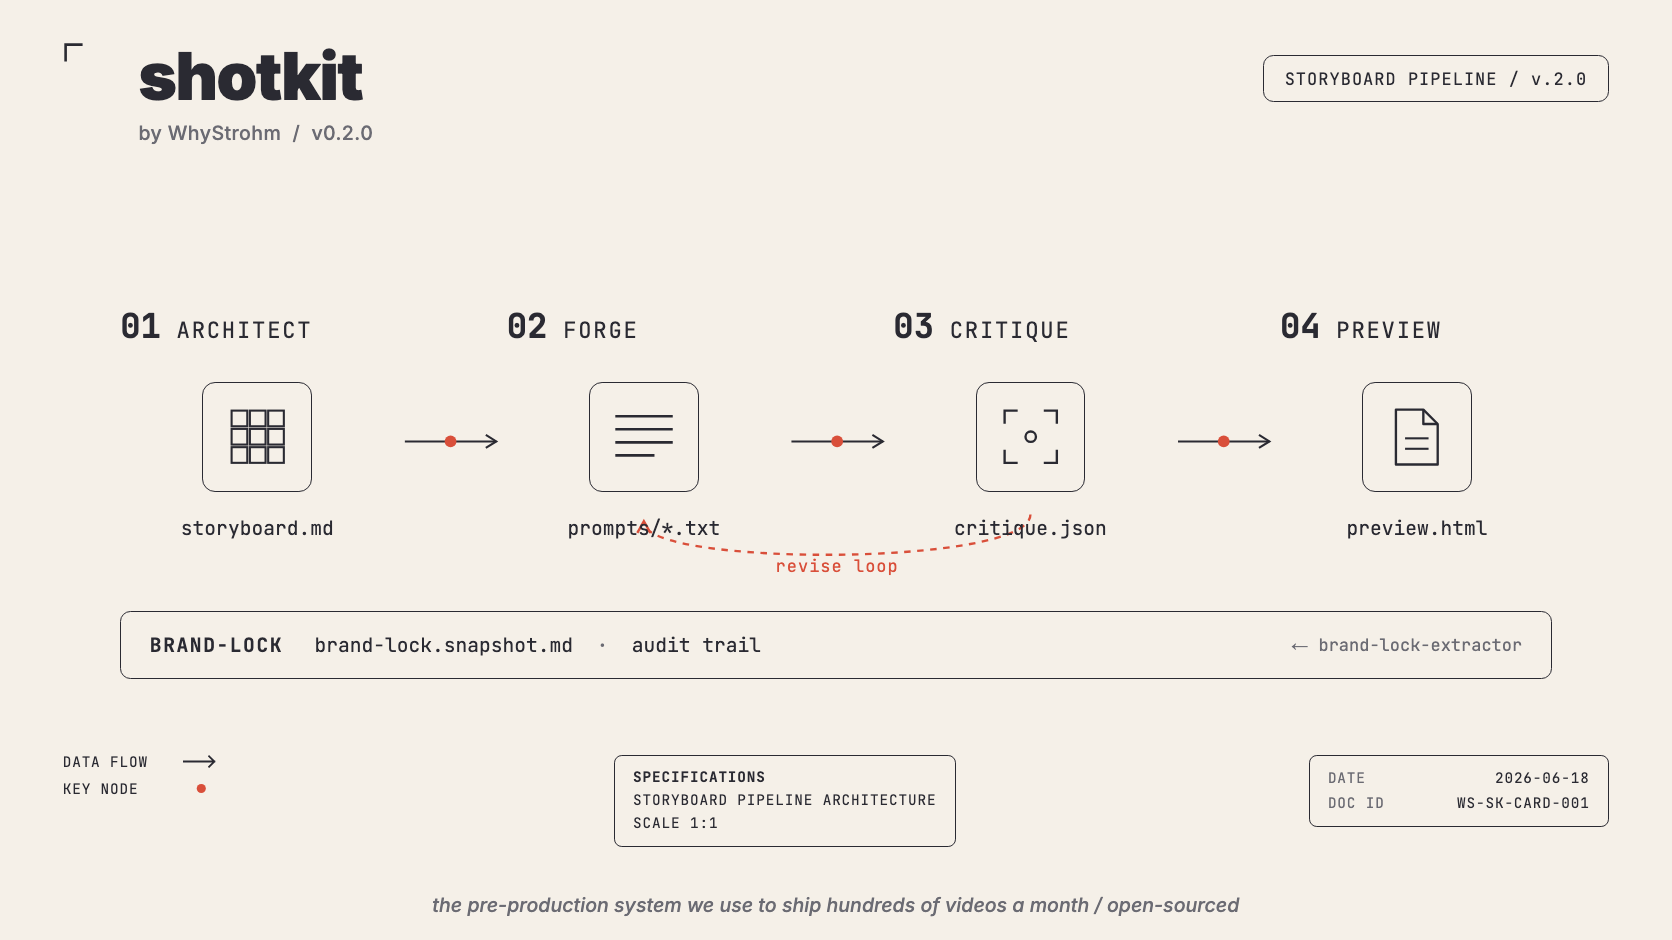
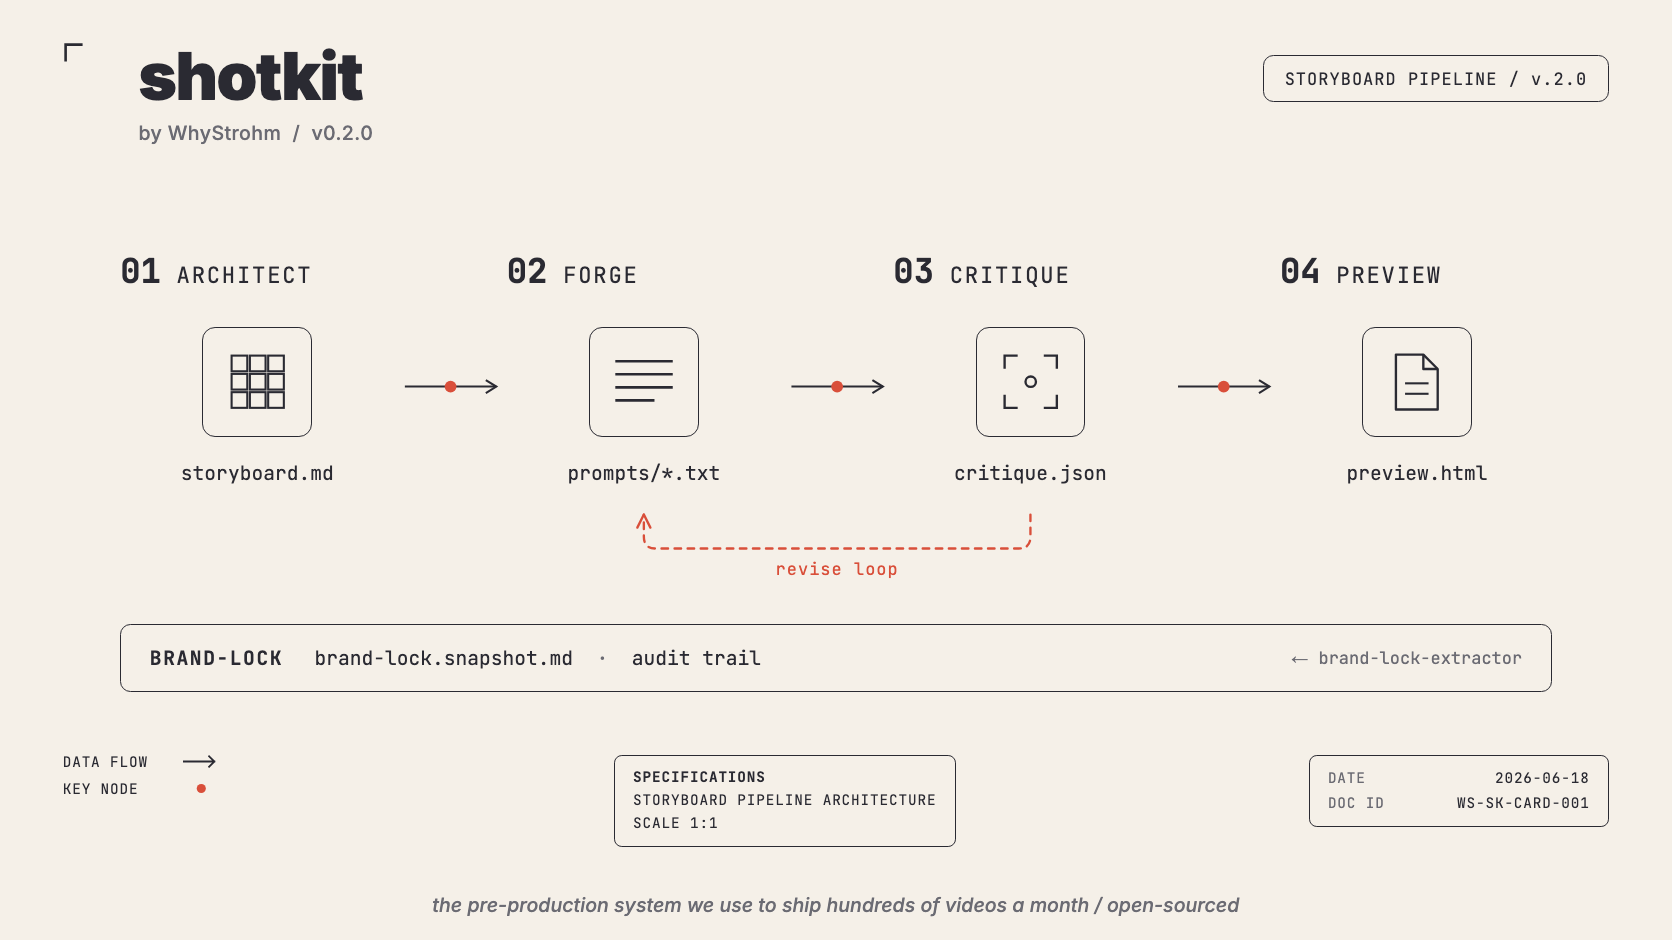
docs: clean up the revise-loop routing on the social-preview card
The feedback arc drooped into the filename row and crossed critique.json,
reading as a scribble. Reroute it as a right-angle schematic wire below the
filenames (drop from CRITIQUE, bus left, rise into FORGE) with proper
clearance, and give the stage row more vertical room.

diff --git a/remotion/src/SocialPreview.tsx b/remotion/src/SocialPreview.tsx
@@ -26,7 +26,7 @@ const STAGES = [
   { n: '04', name: 'PREVIEW', file: 'preview.html', icon: 'doc' as const },
 ];
 
-const ROW_Y = 232;
+const ROW_Y = 190;
 const CARD_W = 210;
 const GAP = 86;
 const FIRST_X = 92;
@@ -53,7 +53,12 @@ export const SocialPreview: React.FC = () => {
       ))}
 
       {/* The closed QA loop: CRITIQUE -> FORGE (revise the failed shots) */}
-      <ReviseLoop fromX={cardCenter(2)} toX={cardCenter(1)} topY={ICON_TOP + ICON_SIZE + 14} />
+      <ReviseLoop
+        fromX={cardCenter(2)}
+        toX={cardCenter(1)}
+        yStart={ICON_TOP + ICON_SIZE + 56}
+        yBus={ICON_TOP + ICON_SIZE + 82}
+      />
 
       {/* Stage cards */}
       {STAGES.map((s, i) => (
@@ -199,21 +204,43 @@ const Connector: React.FC<{ x1: number; x2: number; y: number }> = ({ x1, x2, y 
 };
 
 // The v0.2.0 closed loop: critique.json feeds prompt-forge revision mode.
-const ReviseLoop: React.FC<{ fromX: number; toX: number; topY: number }> = ({ fromX, toX, topY }) => {
-  const dip = topY + 40;
+// Routed as a clean right-angle feedback wire below the filenames: drop from
+// CRITIQUE, run left along a bus, rise into FORGE.
+const ReviseLoop: React.FC<{ fromX: number; toX: number; yStart: number; yBus: number }> = ({
+  fromX,
+  toX,
+  yStart,
+  yBus,
+}) => {
+  const r = 9; // corner radius
+  const d =
+    `M ${fromX} ${yStart} ` +
+    `L ${fromX} ${yBus - r} Q ${fromX} ${yBus} ${fromX - r} ${yBus} ` +
+    `L ${toX + r} ${yBus} Q ${toX} ${yBus} ${toX} ${yBus - r} ` +
+    `L ${toX} ${yStart}`;
   return (
     <svg style={{ position: 'absolute', left: 0, top: 0 }} width={1280} height={720}>
       <path
-        d={`M${fromX} ${topY} C ${fromX} ${dip}, ${toX} ${dip}, ${toX} ${topY + 6}`}
+        d={d}
         stroke={COLORS.coral}
         strokeWidth={1.8}
         fill="none"
         strokeDasharray="5 5"
+        strokeLinecap="round"
+        strokeLinejoin="round"
       />
-      <path d={`M${toX - 5} ${topY + 14}L${toX} ${topY + 5}L${toX + 5} ${topY + 14}`} stroke={COLORS.coral} strokeWidth={1.8} fill="none" />
+      {/* arrowhead pointing up into FORGE */}
+      <path
+        d={`M ${toX - 5} ${yStart + 10} L ${toX} ${yStart} L ${toX + 5} ${yStart + 10}`}
+        stroke={COLORS.coral}
+        strokeWidth={1.8}
+        fill="none"
+        strokeLinecap="round"
+        strokeLinejoin="round"
+      />
       <text
         x={(fromX + toX) / 2}
-        y={dip + 4}
+        y={yBus + 20}
         fill={COLORS.coral}
         fontFamily={monoFamily}
         fontSize={13}
@@ -232,7 +259,7 @@ const BrandLockBar: React.FC = () => (
       position: 'absolute',
       left: 92,
       right: 92,
-      top: 468,
+      top: 478,
       border: `1px solid ${COLORS.ink}`,
       borderRadius: 8,
       height: 52,
